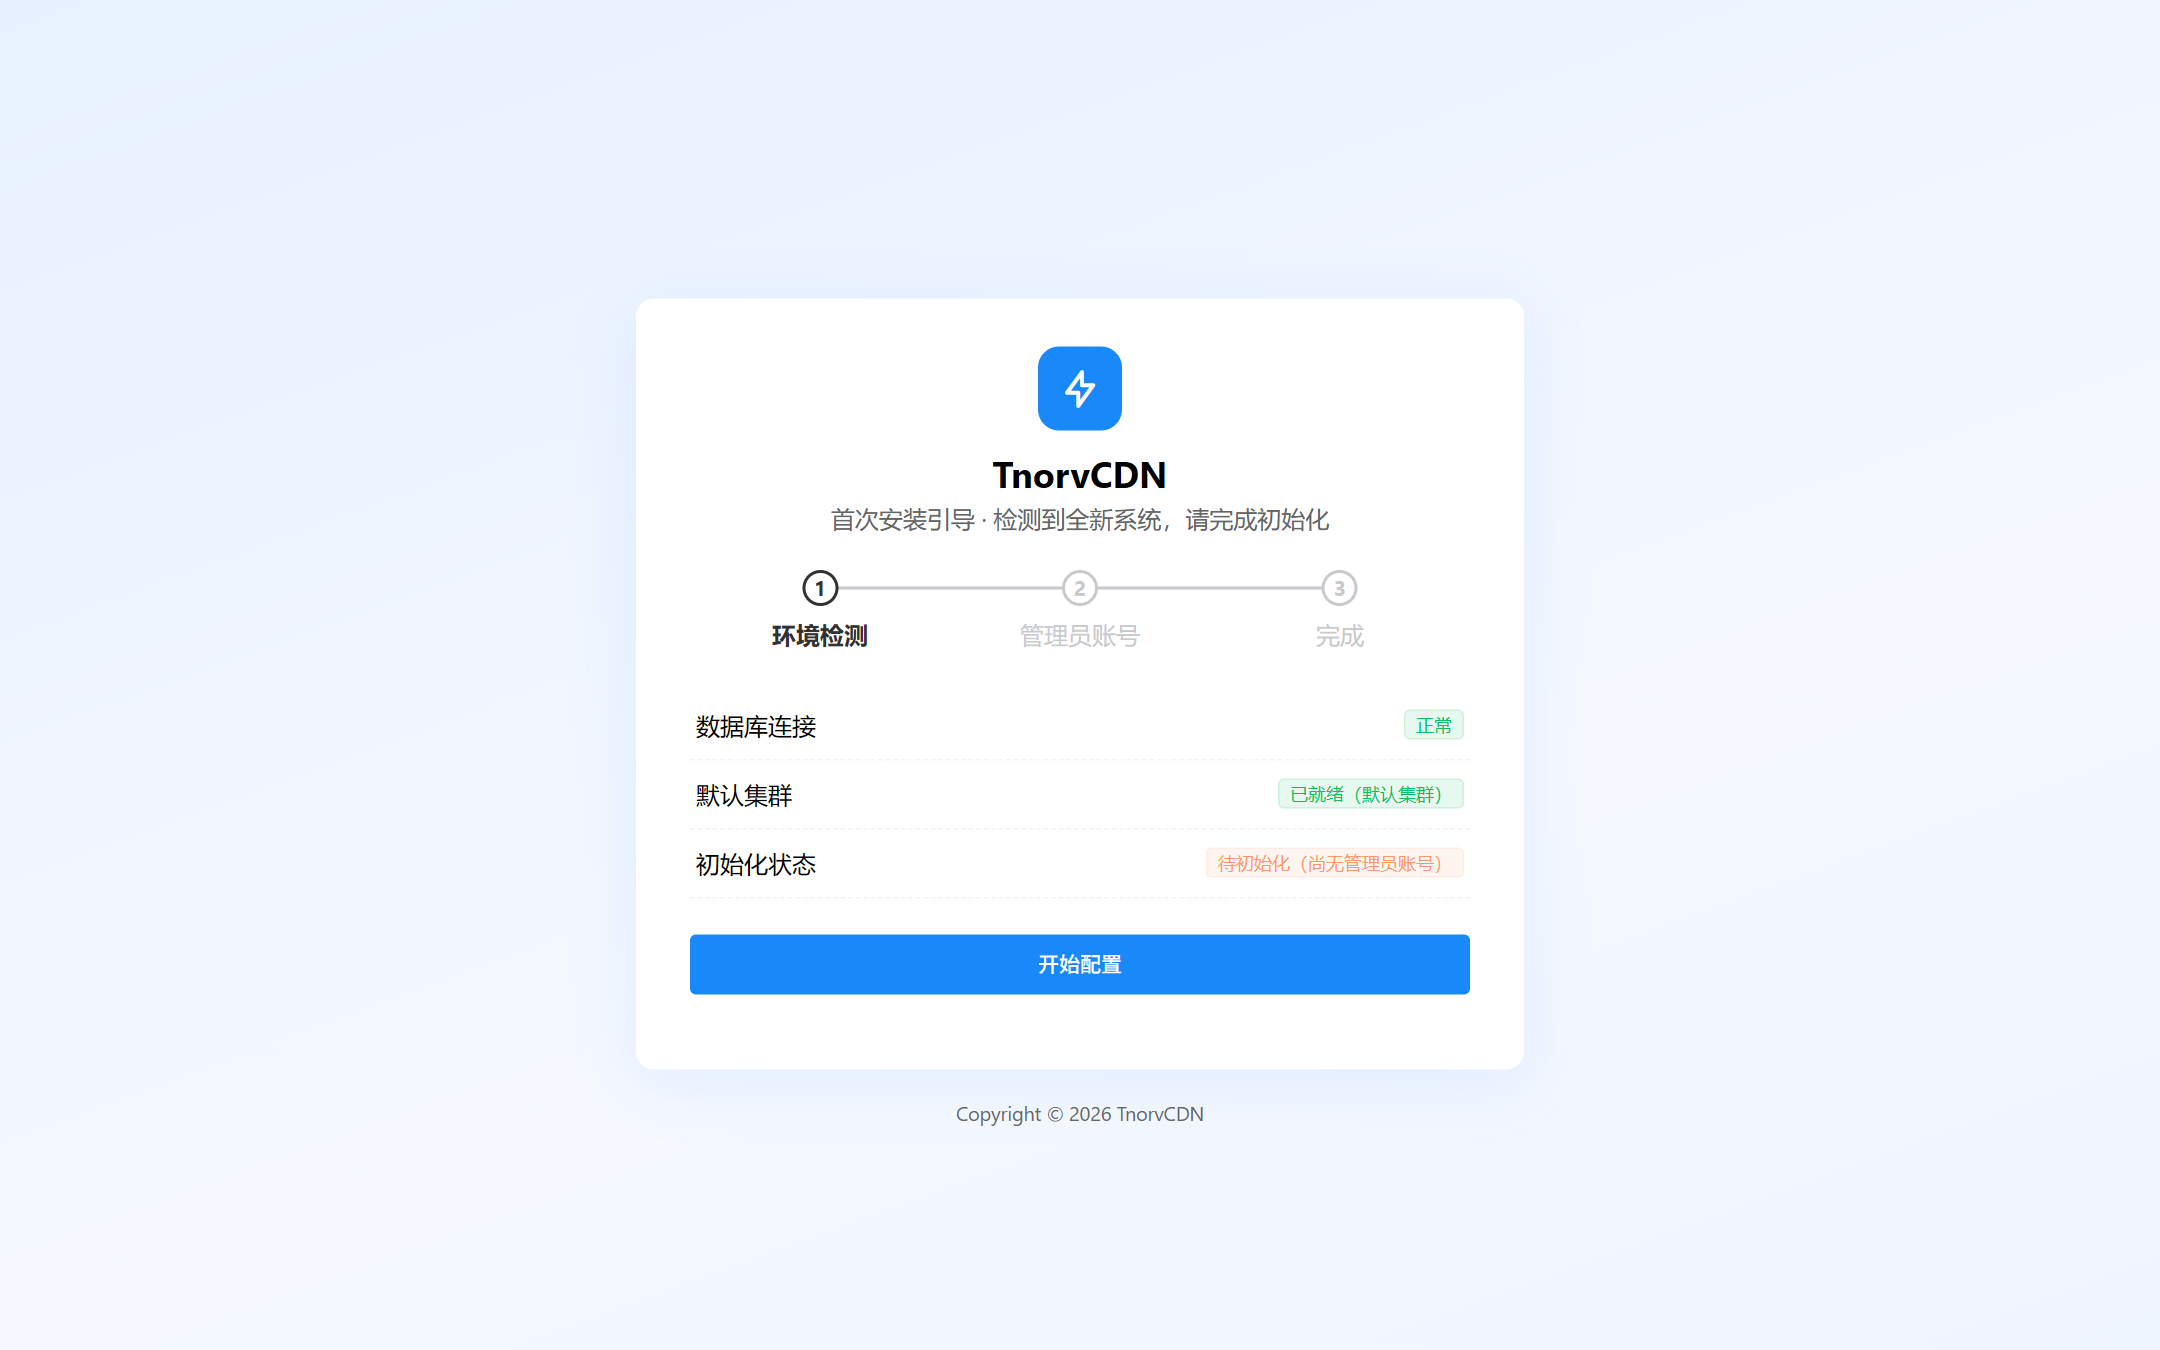
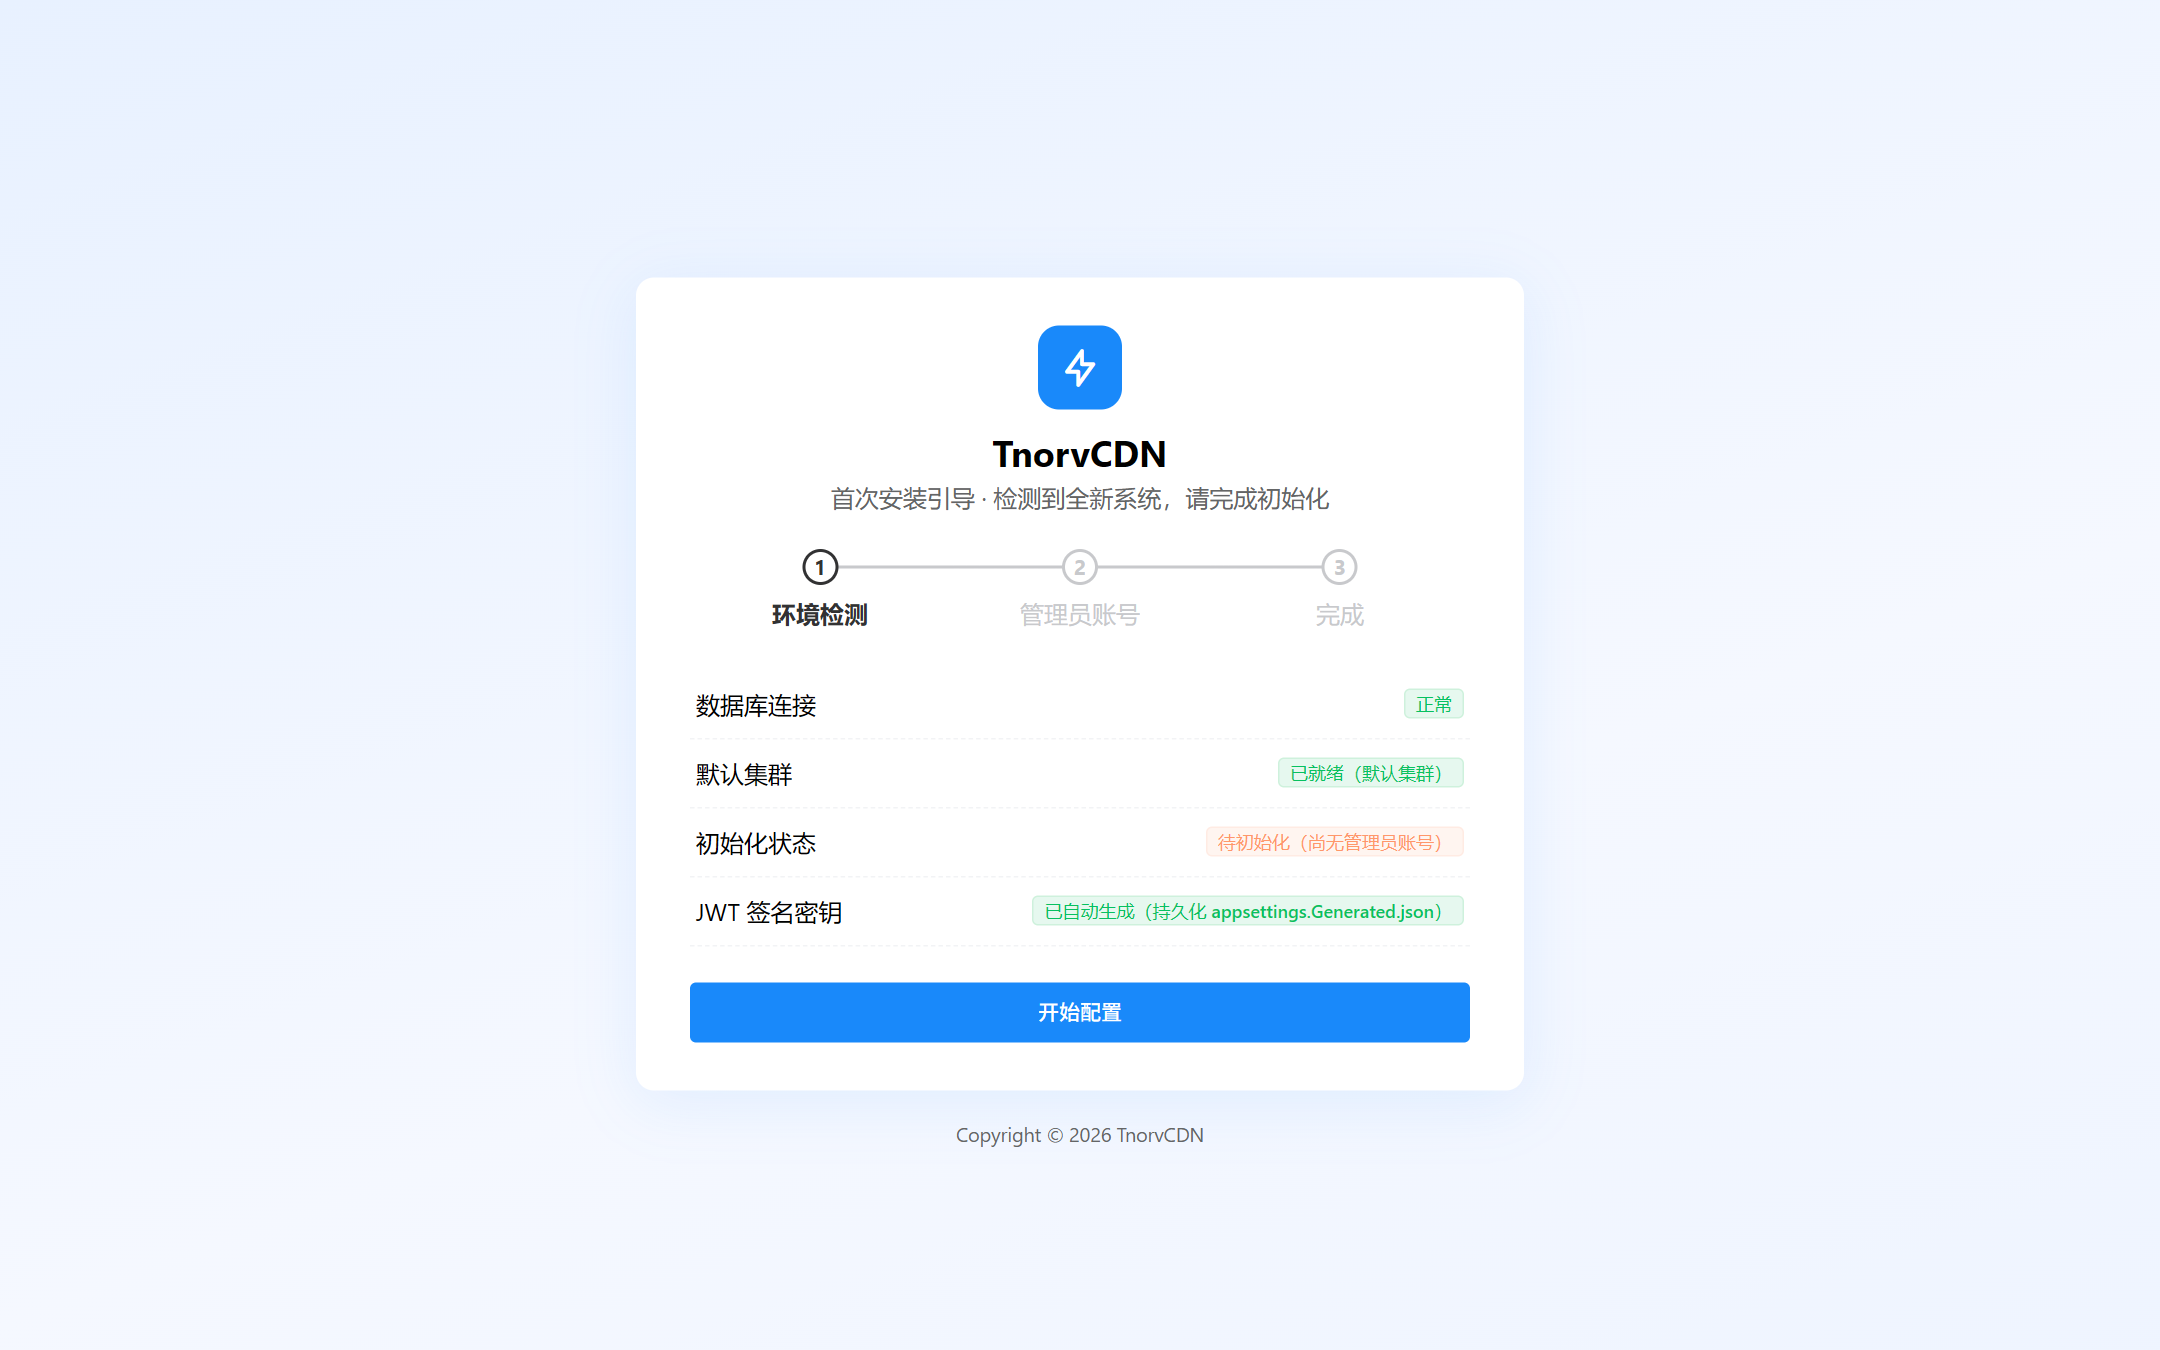
feat: 随机密钥全自动生成，安装引导展示密钥状态
- 新增 AutoSecrets.EnsureJwtKey：Jwt:Key 缺失/占位符时首次启动自动生成
  48 字节强随机密钥，持久化到 appsettings.Generated.json（0600 权限），
  重启保持不变；多实例部署需显式配置相同密钥
- 内置站点模板的 URL 防盗链签名密钥改为随机生成（不再内置固定 key）
- 短信验证码改用加密安全随机数（RandomNumberGenerator.GetInt32）
- 安装引导环境检测新增「JWT 签名密钥」检查行（自动生成/配置文件）
- appsettings.Generated.json 加入 gitignore；README/USAGE 同步更新

Changed region(s): [[0.3102, 0.2178, 0.6824, 0.7778], [0.4343, 0.8089, 0.5583, 0.84]]

diff --git a/src/web/RapidDev.AdminConsole/src/views/setup/index.vue b/src/web/RapidDev.AdminConsole/src/views/setup/index.vue
@@ -12,6 +12,7 @@ const step = ref(0)
 const needed = ref(false)
 const dbOk = ref(false)
 const clusterOk = ref(true) // 默认集群由启动逻辑保证
+const jwtAuto = ref(false)
 const checking = ref(true)
 const form = ref({ username: '', password: '', confirm: '' })
 const submitting = ref(false)
@@ -21,6 +22,7 @@ onMounted(async () => {
   try {
     const r: any = await http.get('/setup/status')
     needed.value = !!(r?.data?.needed ?? r?.needed)
+    jwtAuto.value = !!(r?.jwtKeyAuto ?? r?.data?.jwtKeyAuto)
     dbOk.value = true
     if (!needed.value) router.replace('/login')
   } catch {
@@ -64,6 +66,7 @@ const goLogin = () => router.replace('/login')
         <div class="check-row"><span>数据库连接</span><el-tag :type="dbOk ? 'success' : 'danger'" size="small">{{ dbOk ? '正常' : '失败' }}</el-tag></div>
         <div class="check-row"><span>默认集群</span><el-tag :type="clusterOk ? 'success' : 'danger'" size="small">{{ clusterOk ? '已就绪（默认集群）' : '未就绪' }}</el-tag></div>
         <div class="check-row"><span>初始化状态</span><el-tag :type="needed ? 'warning' : 'info'" size="small">{{ needed ? '待初始化（尚无管理员账号）' : '已完成' }}</el-tag></div>
+        <div class="check-row"><span>JWT 签名密钥</span><el-tag :type="'success'" size="small">{{ jwtAuto ? '已自动生成（持久化 appsettings.Generated.json）' : '已使用配置文件密钥' }}</el-tag></div>
         <el-button type="primary" class="w-100 mt-4" size="large" :disabled="!dbOk || !needed" @click="step = 1">开始配置</el-button>
       </div>
 

diff --git a/src/server/TnorvCdn.Api/Program.cs b/src/server/TnorvCdn.Api/Program.cs
@@ -12,6 +12,9 @@ using TnorvCdn.Api.Services;
 
 var builder = WebApplication.CreateBuilder(args);
 
+// 随机密钥保障：Jwt:Key 缺失/占位符时自动生成强随机密钥并持久化 appsettings.Generated.json
+TnorvCdn.Api.Services.AutoSecrets.EnsureJwtKey(builder);
+
 // 数据库：默认 SQLite（开发/演示），生产切 PostgreSQL 只需换连接串与 Provider
 // CentOS 8 的 glibc 过旧无法加载 SQLitePCLraw 原生库时，可切换 Npgsql：
 //   dotnet add package Npgsql.EntityFrameworkCore.PostgreSQL
@@ -93,6 +96,9 @@ builder.Services.AddAuthentication(JwtBearerDefaults.AuthenticationScheme)
 builder.Services.AddAuthorization();
 
 var app = builder.Build();
+
+if (TnorvCdn.Api.Services.AutoSecrets.JwtKeyAutoGenerated)
+    app.Logger.LogInformation("Jwt:Key 未配置，已自动生成强随机密钥并持久化到 appsettings.Generated.json（多实例部署请显式配置相同密钥）");
 
 // 自动建库 + 种子管理员（首次启动）
 using (var scope = app.Services.CreateScope())
@@ -251,6 +257,7 @@ using (var scope = app.Services.CreateScope())
     // 内置站点配置模板（一键应用：HTTPS/缓存/安全预设），幂等
     if (!db.SiteConfigTemplates.Any(t => t.BuiltIn))
     {
+        var urlAuthKey = TnorvCdn.Api.Services.AutoSecrets.RandomHex(16); // URL 防盗链签名密钥随机生成
         db.SiteConfigTemplates.AddRange(
             new SiteConfigTemplate
             {
@@ -268,7 +275,7 @@ using (var scope = app.Services.CreateScope())
             {
                 Name = "高安全模式", BuiltIn = true,
                 Description = "强制HTTPS + 5秒盾 + URL防盗链 + CC高防，适合被攻击站点",
-                ConfigJson = """{"sslMode":"auto","forceHttps":true,"cache":{"enabled":true,"rules":[{"ext":["jpg","png","css","js"],"ttl":86400}]},"security":{"cc":{"enabled":true,"threshold":60,"windowSeconds":60,"banSeconds":600,"excludePaths":[]},"jsShield":{"enabled":true,"mode":"js","cookieSeconds":1800,"maxFails":2,"banSeconds":3600,"excludePaths":["/api/"]},"urlAuth":{"enabled":true,"type":"a","key":"tnorv-urlauth-key","expirySeconds":3600},"uaRules":[],"ipWhitelist":[],"ipBlacklist":[],"deniedCountries":[],"deniedCidrs":[]}}""",
+                ConfigJson = """{"sslMode":"auto","forceHttps":true,"cache":{"enabled":true,"rules":[{"ext":["jpg","png","css","js"],"ttl":86400}]},"security":{"cc":{"enabled":true,"threshold":60,"windowSeconds":60,"banSeconds":600,"excludePaths":[]},"jsShield":{"enabled":true,"mode":"js","cookieSeconds":1800,"maxFails":2,"banSeconds":3600,"excludePaths":["/api/"]},"urlAuth":{"enabled":true,"type":"a","key":"{urlAuthKey},"uaRules":[],"ipWhitelist":[],"ipBlacklist":[],"deniedCountries":[],"deniedCidrs":[]}}""".Replace("__URLAUTH_KEY__", urlAuthKey),
             });
         db.SaveChanges();
         app.Logger.LogInformation("已初始化内置站点配置模板");

diff --git a/src/server/TnorvCdn.Api/Endpoints/SetupEndpoints.cs b/src/server/TnorvCdn.Api/Endpoints/SetupEndpoints.cs
@@ -2,6 +2,7 @@ using System.Text.RegularExpressions;
 using Microsoft.EntityFrameworkCore;
 using TnorvCdn.Api.Core;
 using TnorvCdn.Api.Data;
+using TnorvCdn.Api.Services;
 
 namespace TnorvCdn.Api.Endpoints;
 
@@ -24,7 +25,7 @@ public static class SetupEndpoints
             {
                 code = 200,
                 message = "操作成功",
-                data = new { needed },
+                data = new { needed, jwtKeyAuto = AutoSecrets.JwtKeyAutoGenerated },
             });
         });
 

diff --git a/USAGE.md b/USAGE.md
@@ -62,7 +62,7 @@ GRANT ALL PRIVILEGES ON DATABASE tnorv TO tnorv;
 | 配置项 | 说明 |
 |---|---|
 | `ConnectionStrings:Default` | PostgreSQL 连接串，替换 `<YOUR_DB_PASSWORD>` |
-| `Jwt:Key` | JWT 签名密钥，**必须**替换为 ≥32 字节随机串（如 `openssl rand -base64 48` 生成） |
+| `Jwt:Key` | JWT 签名密钥。**留空或保留占位符时，首次启动自动生成 48 字节强随机密钥**并持久化到应用目录 `appsettings.Generated.json`（0600 权限），重启保持不变；多实例部署请显式配置相同密钥 |
 | `Dns:Enabled` | 仅作首次启动种子：是否随启动把该节迁移入 DnsSettings 表（此后以数据库/管理端为准） |
 | `Dns:Provider` | `aggregated` / `aliyun` / `dnspod` / `huawei` / `cloudflare` |
 | `Dns:DefaultDomainId` | DNS 服务商处主域名 ID（CNAME 与集群 A 记录建在其下） |
@@ -295,7 +295,7 @@ curl -s http://127.0.0.1:8081/health
 ## 13. 安全清单（上线前）
 
 - [ ] 安装引导中已设置自定义管理员账号与强密码（系统不内置默认账号）
-- [ ] 替换 `Jwt:Key` 为随机 ≥32 字节
+- [ ] `Jwt:Key` 已自动生成（或显式配置）；多实例部署各实例使用相同密钥
 - [ ] 数据库使用强密码；主控 8080 仅监听内网或置于 nginx 之后
 - [ ] 节点 `configs/tnorv-node.json` 权限 0600（程序默认即为 0600）
 - [ ] 防火墙：仅放行业务端口（80/443），节点本地管理端口绑定 127.0.0.1
